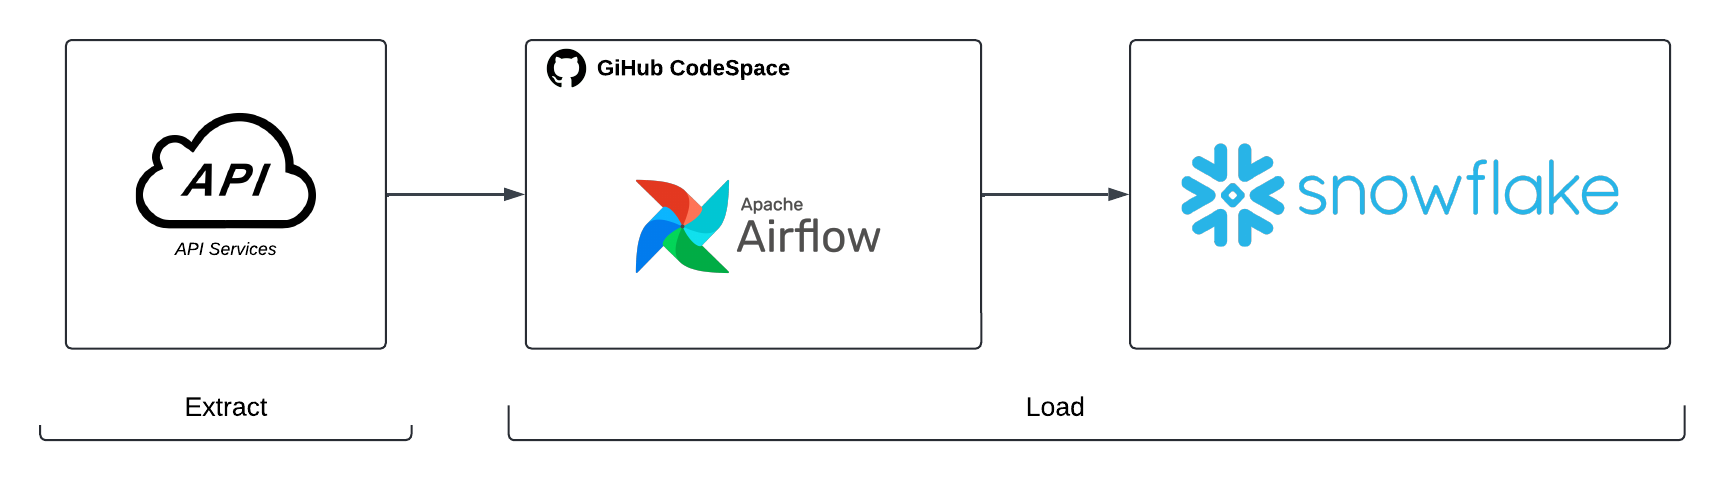
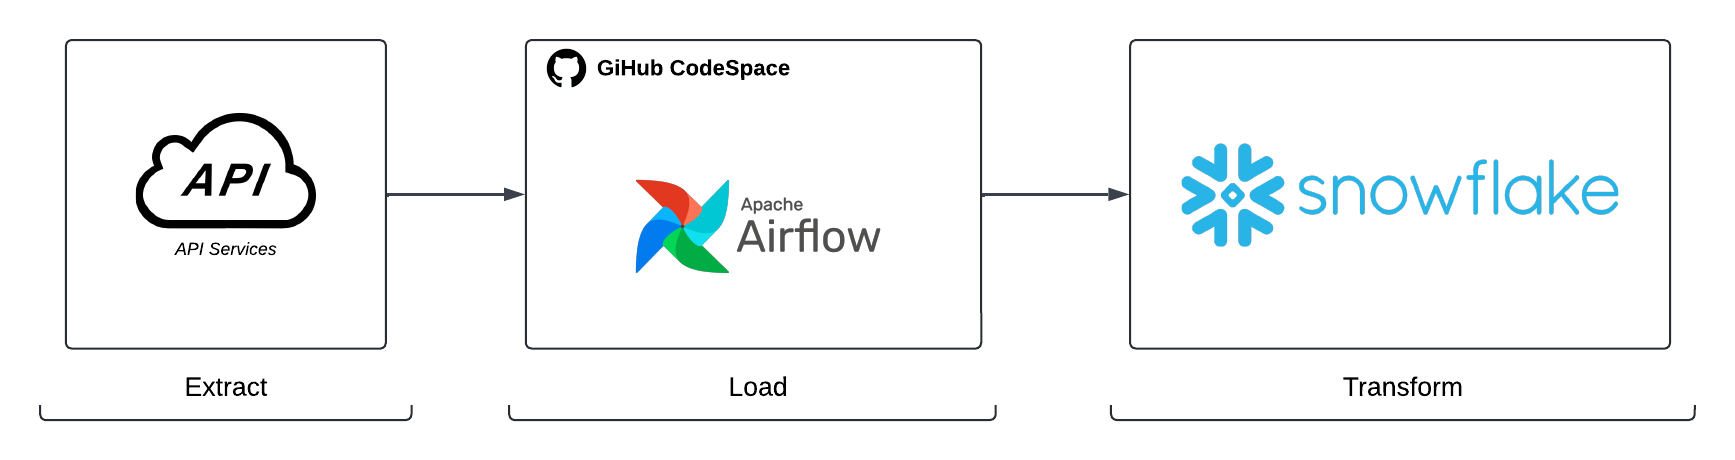
Updating readme

diff --git a/README.md b/README.md
@@ -47,6 +47,8 @@ Go to the Airflow UI and then clcik on the admin button then select connection. 
 
 DAG (Directed Acyliy Graph) represents a sets of task including dependencies. Within DAG, we also define a task, task dependencies, operator, and scheduler. Let's create our DAG pipeline that extract data from API and loading to the Snowflake AI Cloud Data Warehouse.
 
+![snowflake_airflow_graph](https://github.com/znlbdn/data-egnineering-with-airflow-snowflake/blob/main/assets/airlow-graph.png)
+
 - Define the operator, python library and snowflake provider
 
 In this project, PythonOperator is used to define the task within a workflow.
@@ -183,5 +185,7 @@ create_table_task >> get_book_data >> transform >> load_to_snowflake
 This mean that the create table task will execute first then extract data from api, transorm data and load to snowflake.
 
 ![snowflake_airflow_arch](https://github.com/znlbdn/data-egnineering-with-airflow-snowflake/blob/main/assets/api-snowflake-data.png)
+
+Creating simple viz from our data within snowflake
 
 ![snowflake_airflow_viz](https://github.com/znlbdn/data-egnineering-with-airflow-snowflake/blob/main/assets/viz-airflow-snowflake.png)
